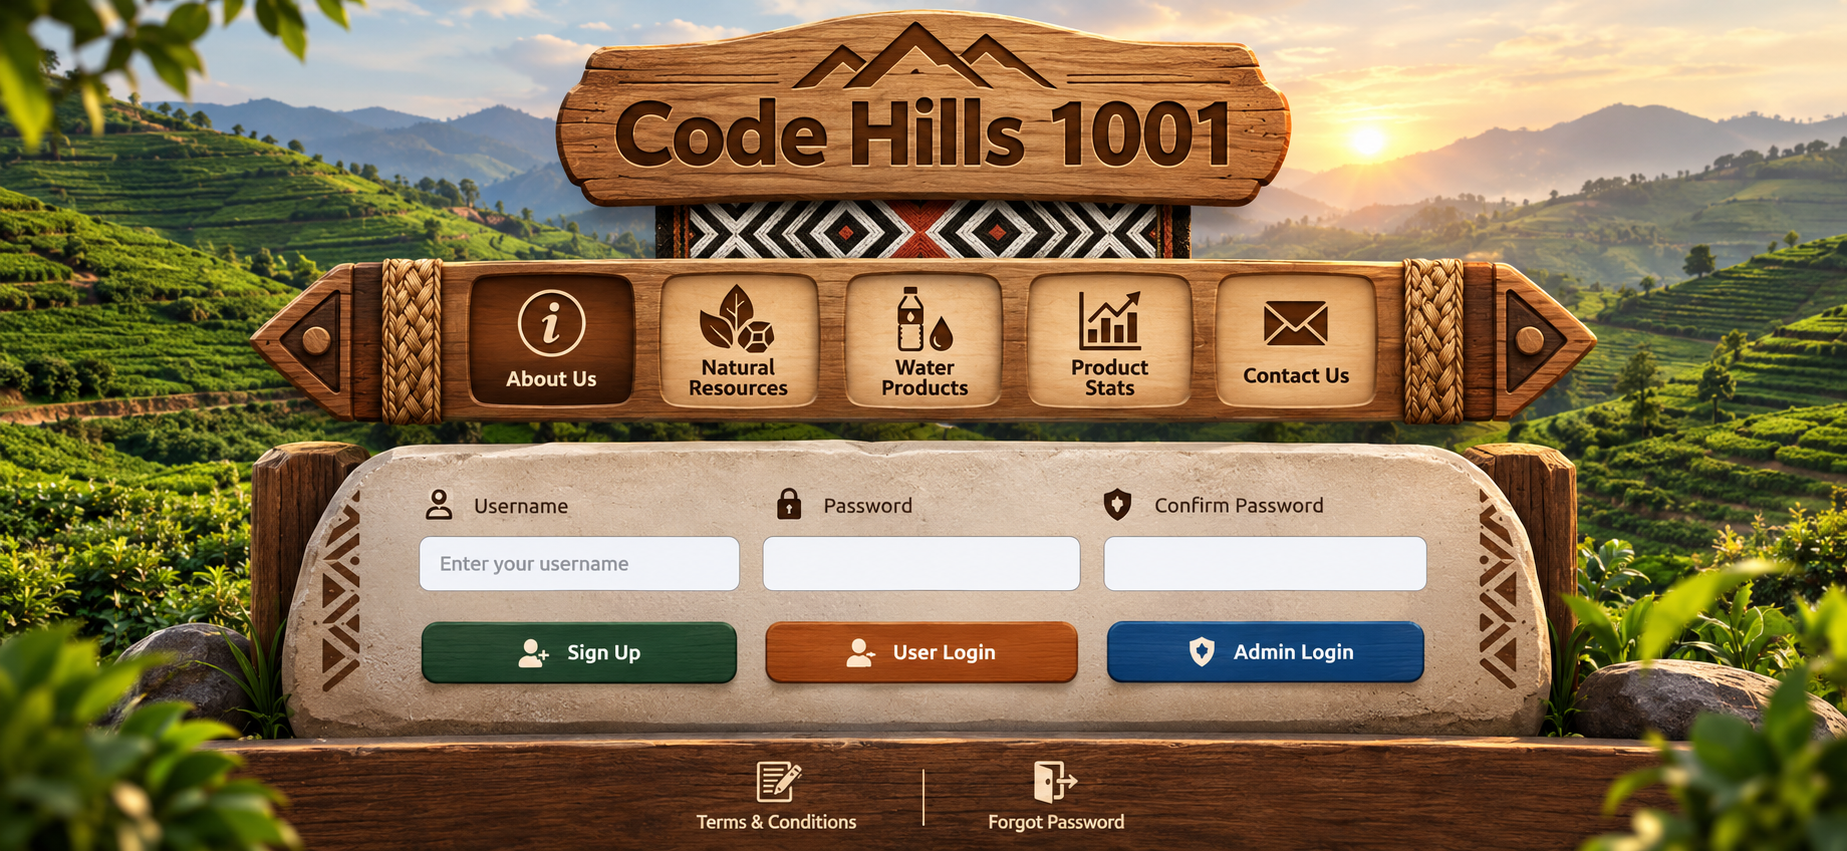
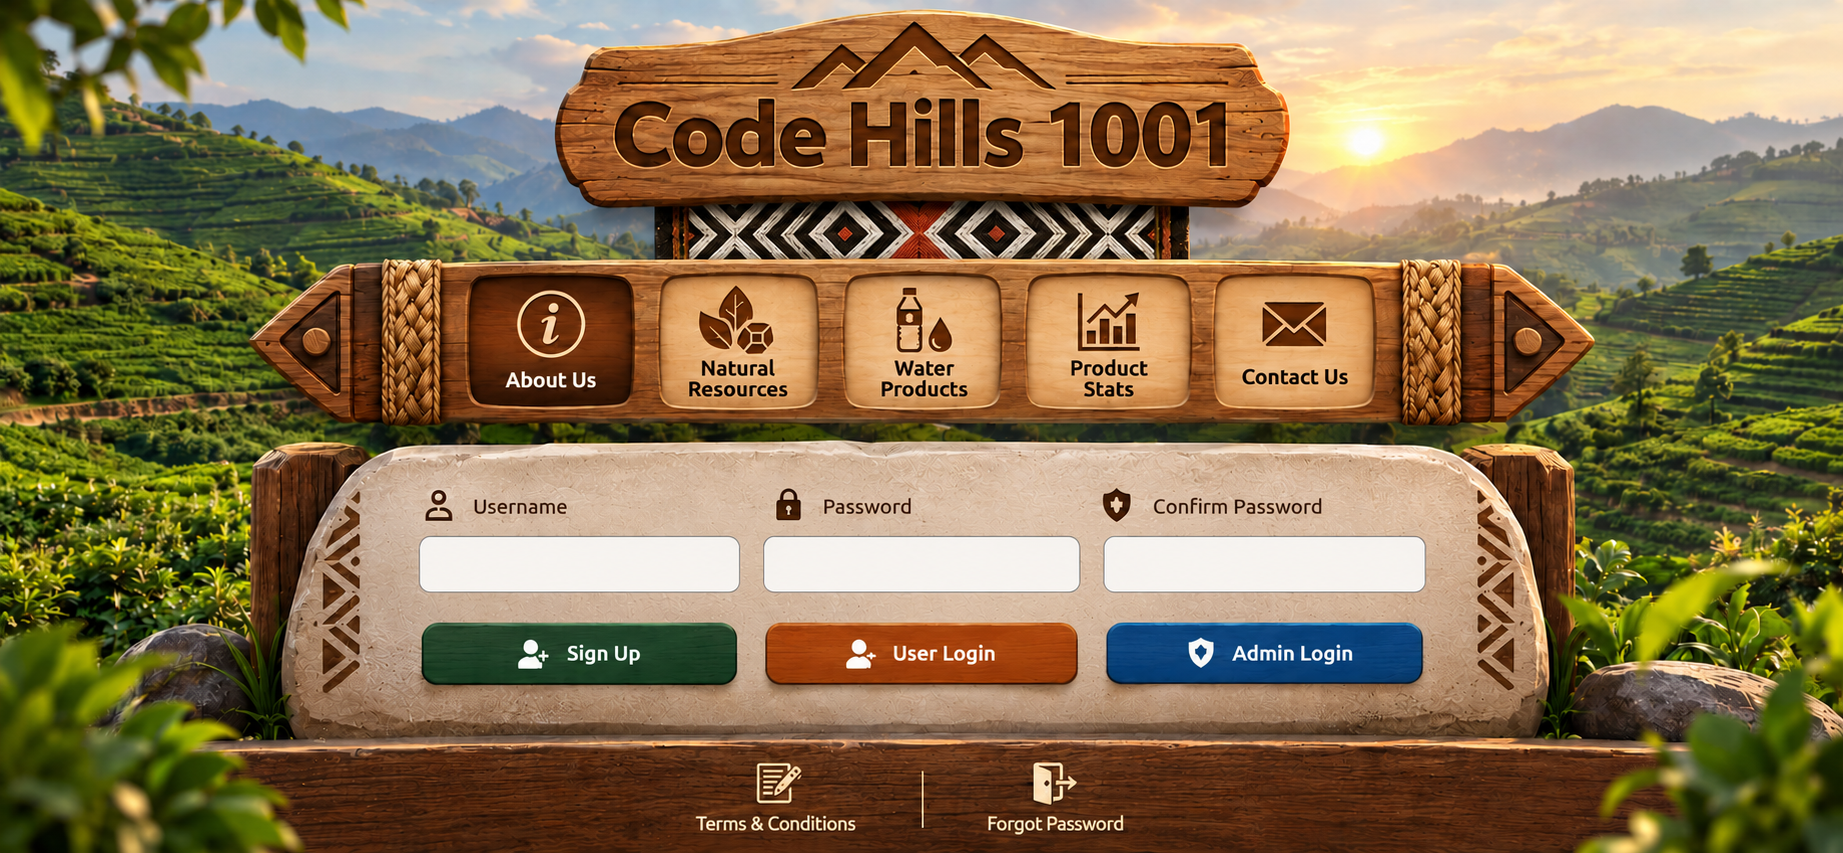
input field corrected

diff --git a/app/globals.css b/app/globals.css
@@ -2,4 +2,20 @@
 html, body { width: 100%; height: 100%; overflow: hidden; background: #000; }
 button { cursor: pointer; border: none; background: none; padding: 0; }
 input, textarea { font-family: inherit; }
+.home-overlay-input,
+.home-overlay-input:hover,
+.home-overlay-input:focus,
+.home-overlay-input:autofill,
+.home-overlay-input:-webkit-autofill,
+.home-overlay-input:-webkit-autofill:hover,
+.home-overlay-input:-webkit-autofill:focus,
+.home-overlay-input:-webkit-autofill:active {
+  background: transparent !important;
+  background-color: transparent !important;
+  box-shadow: 0 0 0 1000px transparent inset !important;
+  -webkit-box-shadow: 0 0 0 1000px transparent inset !important;
+  -webkit-text-fill-color: #2A1A04 !important;
+  caret-color: #2A1A04;
+  transition: background-color 999999s ease-out 0s;
+}
 a { color: inherit; text-decoration: none; }

diff --git a/components/pages/HomePage.tsx b/components/pages/HomePage.tsx
@@ -42,10 +42,12 @@ function InputOverlay({ def, value, onChange, placeholder, type }: {
   const [x, y, w, hh] = def;
   return (
     <input
+      className="home-overlay-input"
       type={type || "text"}
       value={value}
       onChange={e => onChange(e.target.value)}
       placeholder={placeholder}
+      autoComplete="off"
       style={{
         position: "absolute",
         left: `${x * 100}%`, top: `${y * 100}%`,
